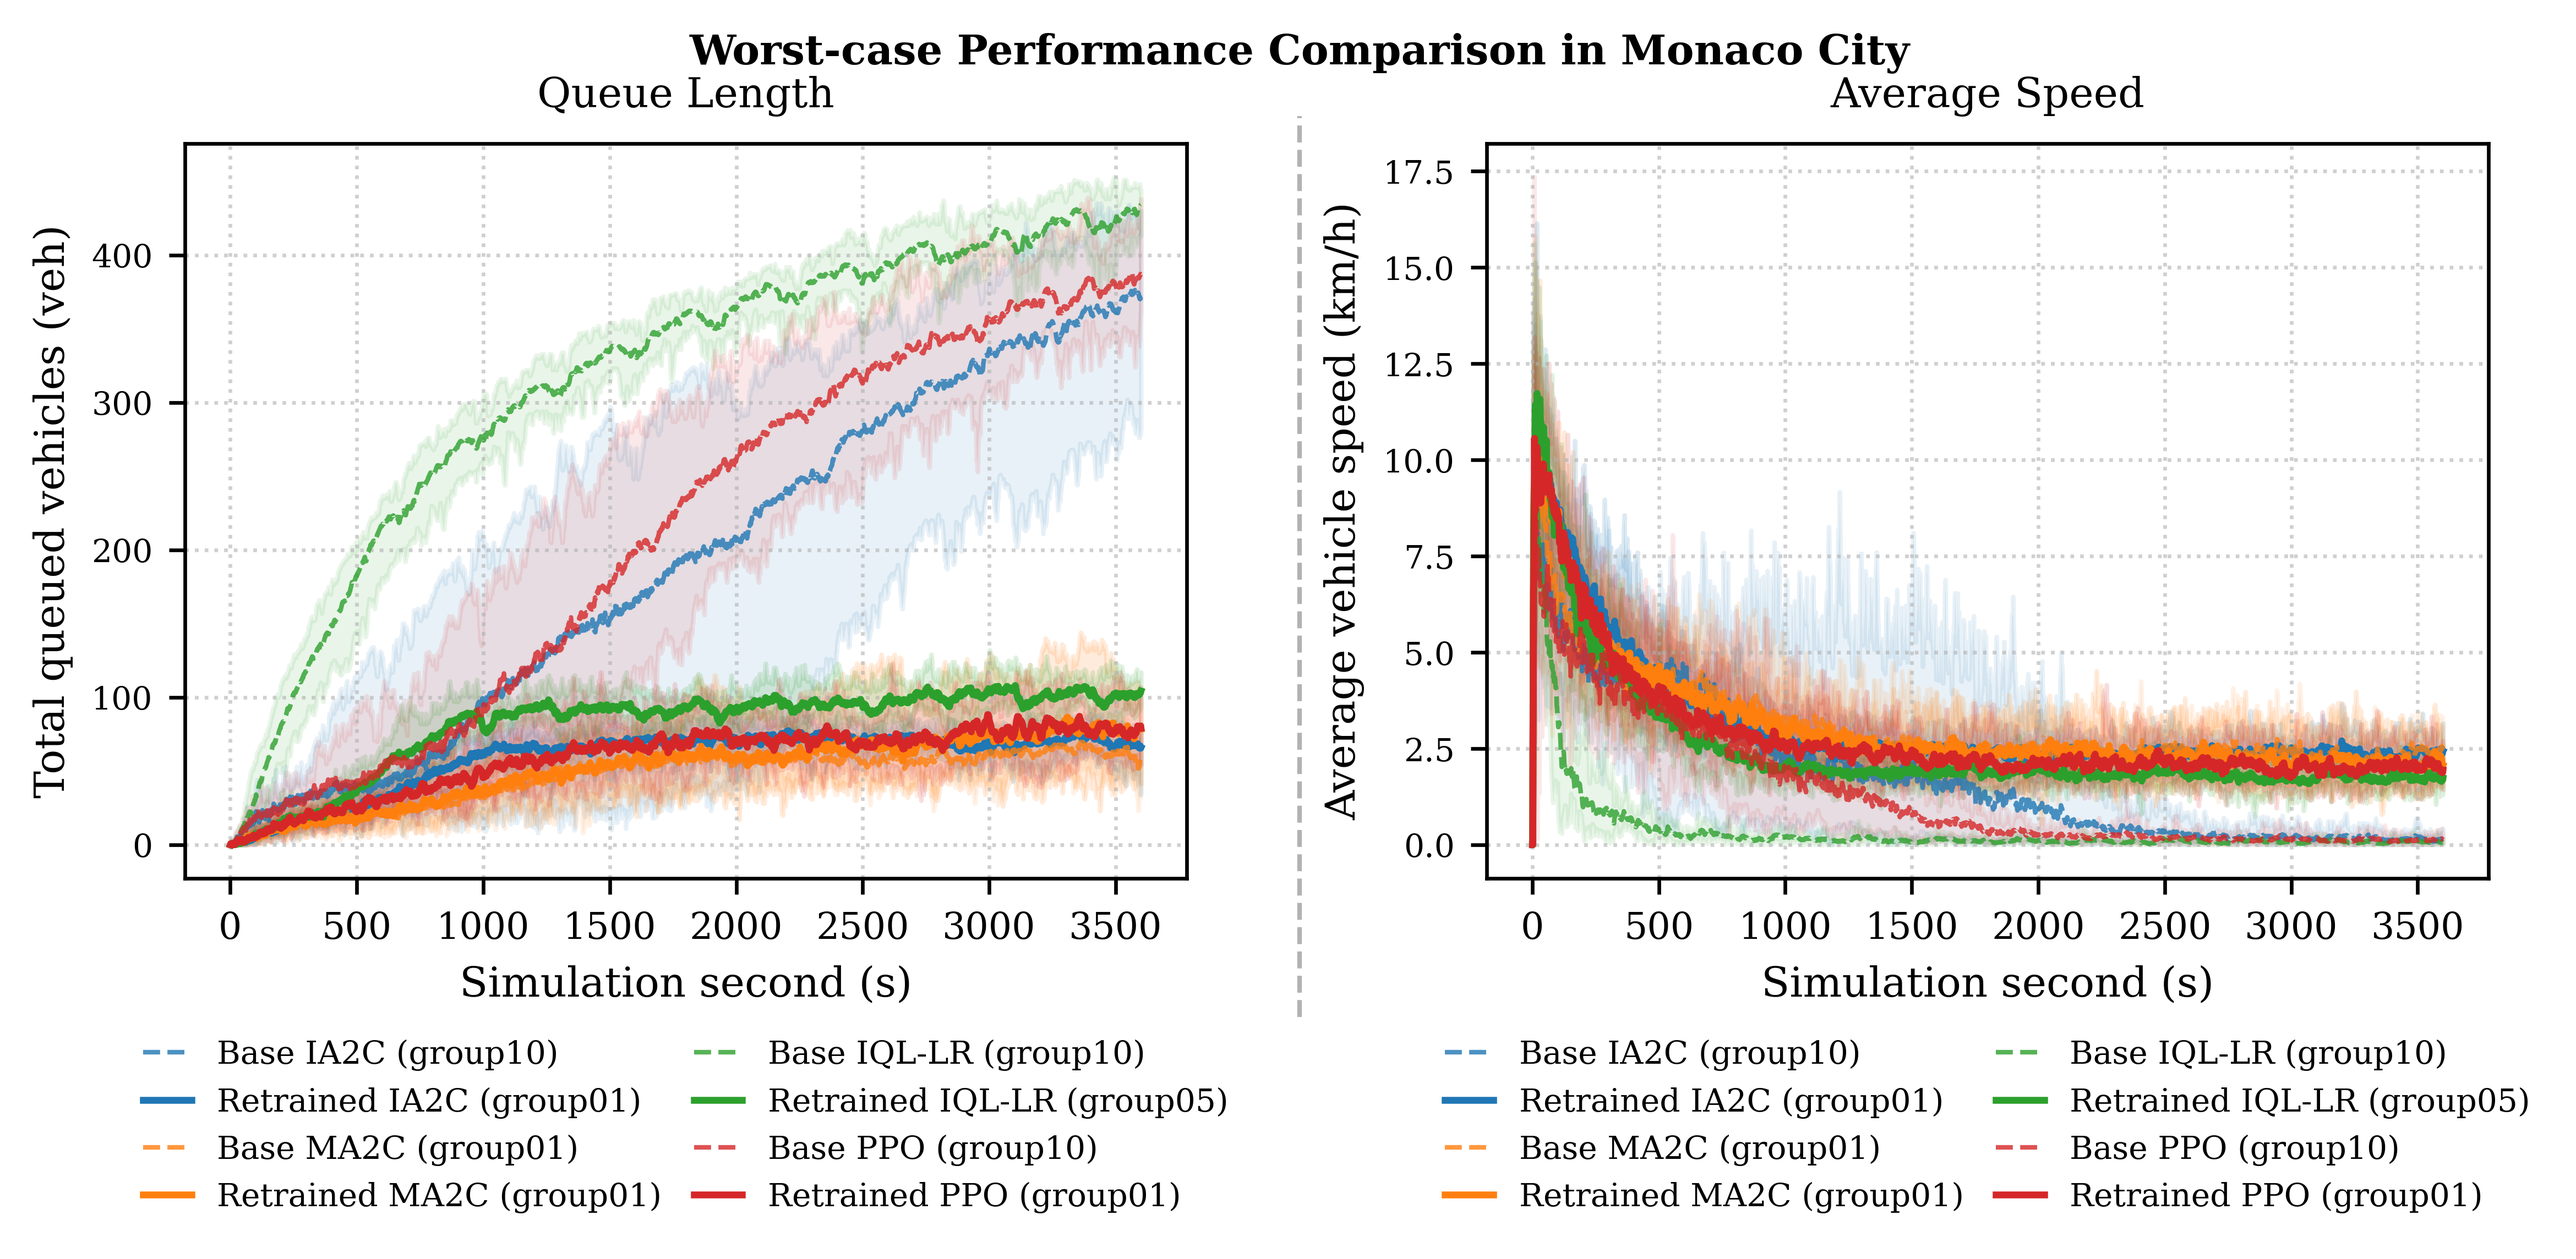
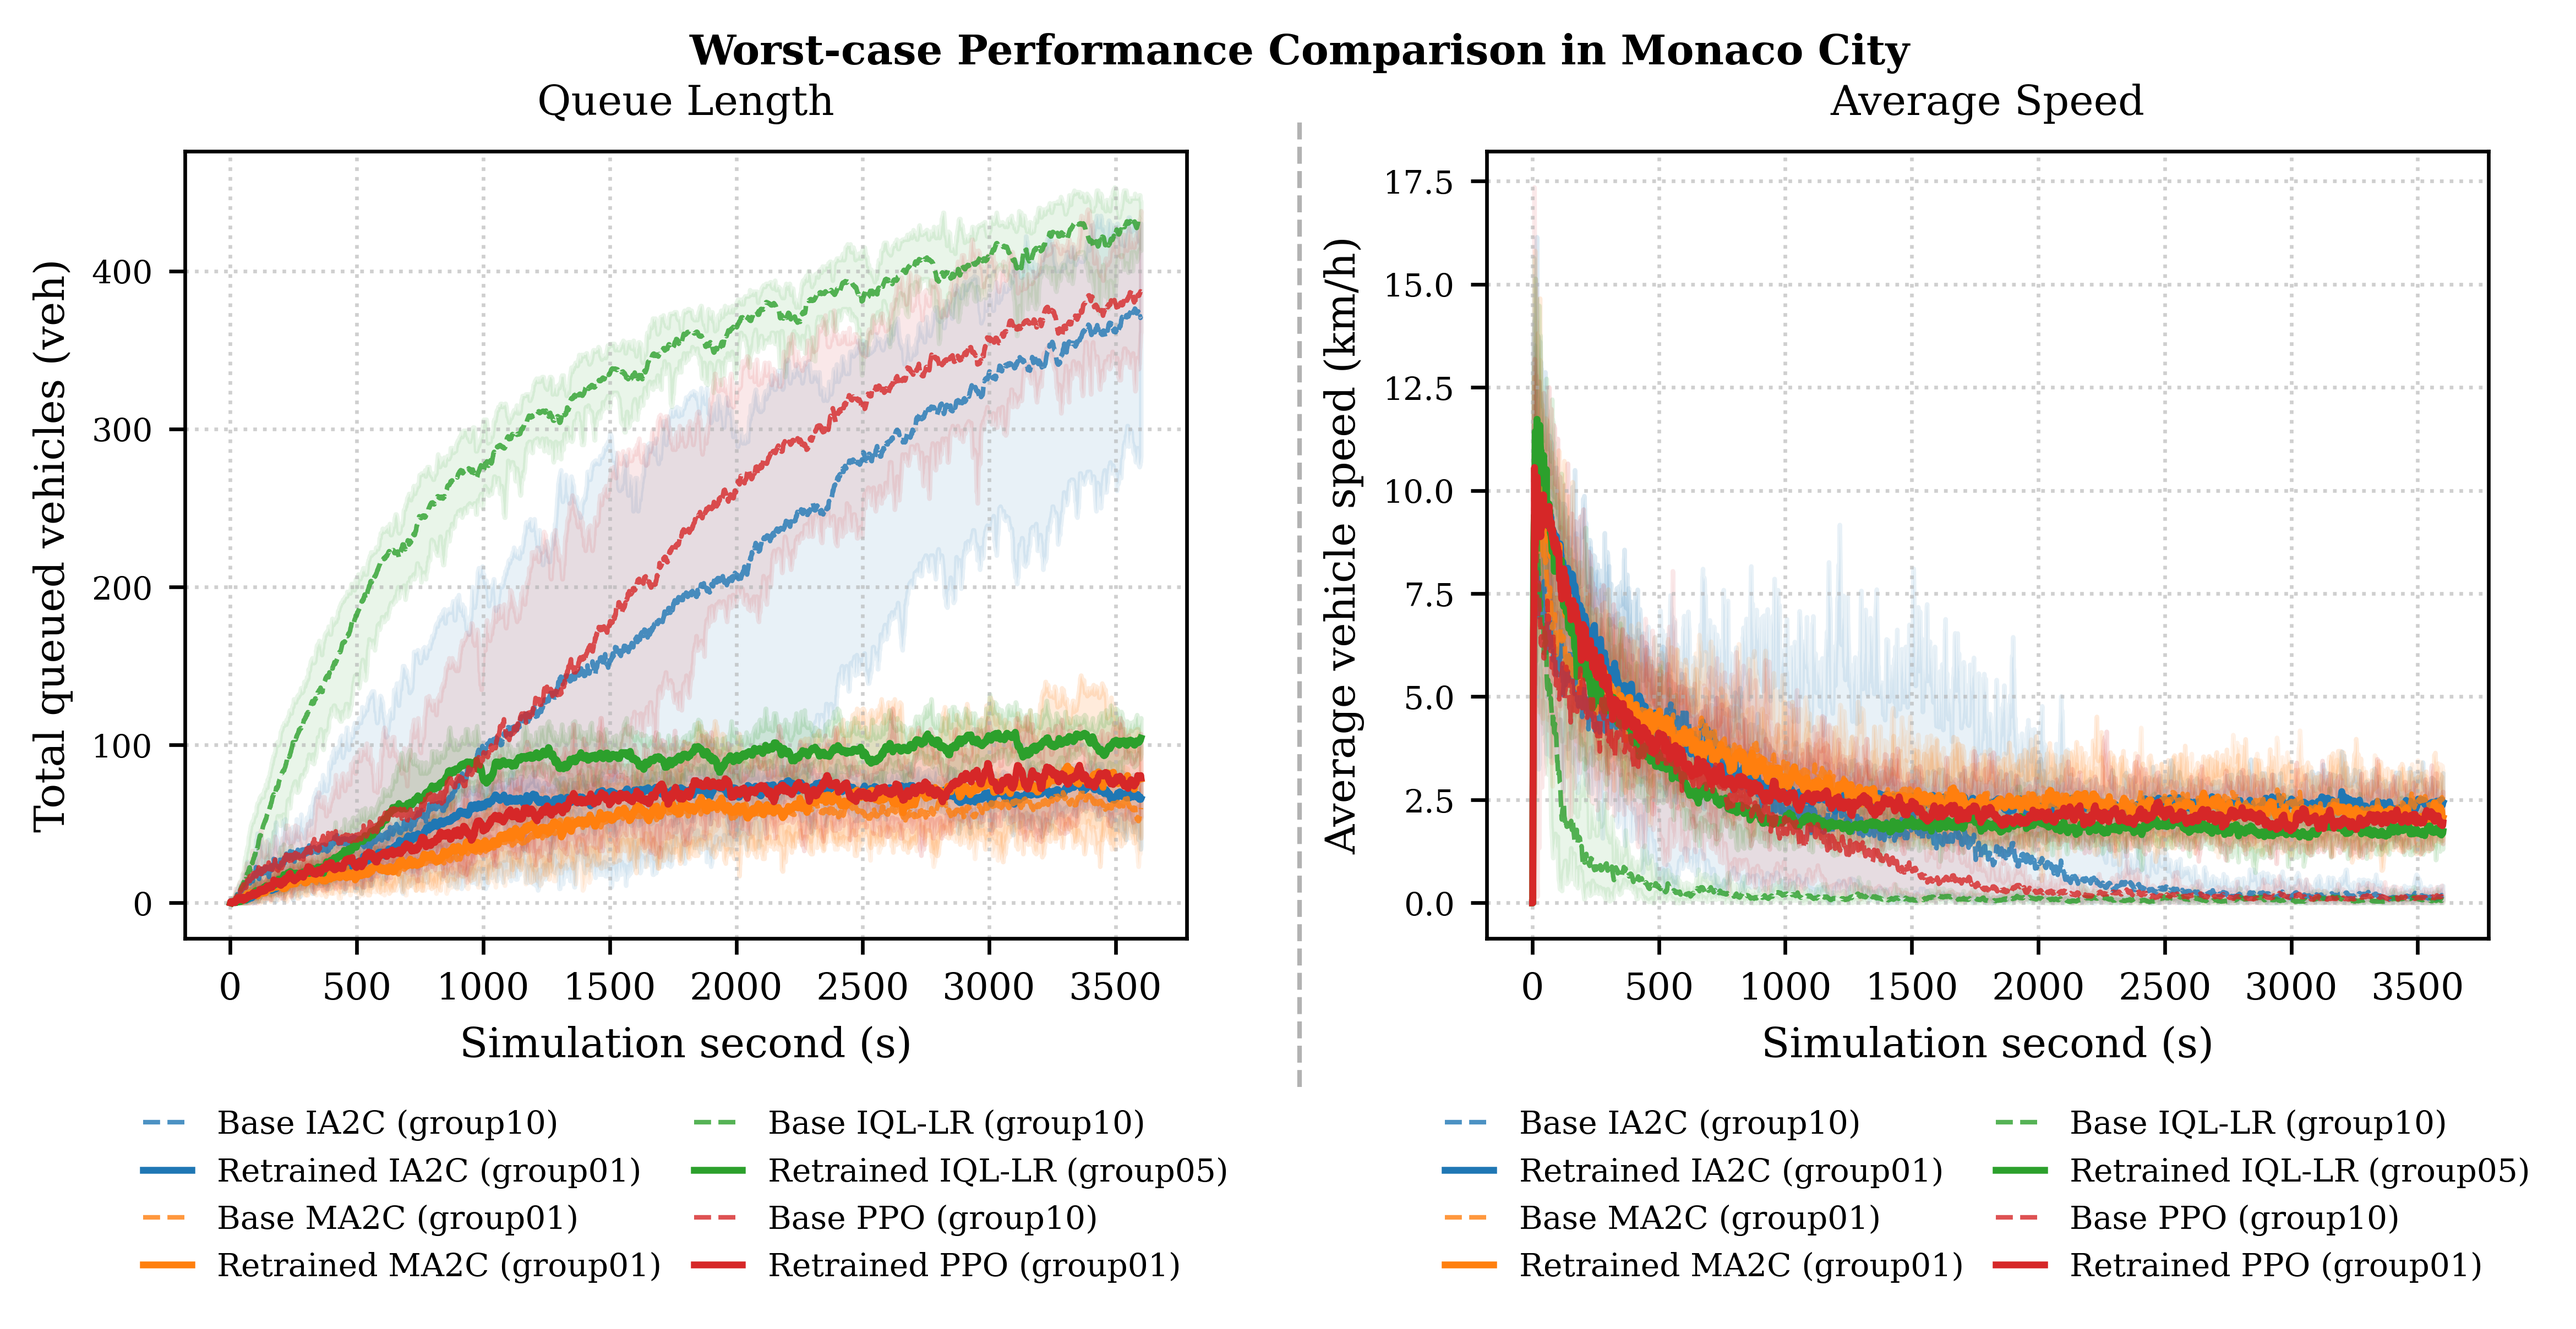
minor change for multi plot bot

diff --git a/Multi_plot.py b/Multi_plot.py
@@ -210,7 +210,7 @@ def main():
 
     for scenario in PAIRED_SCENARIOS:
         # 增加总高度至 4.8，为底部的多行图例留出充足空间
-        fig, (ax1, ax2) = plt.subplots(1, 2, figsize=(9, 4.2))
+        fig, (ax1, ax2) = plt.subplots(1, 2, figsize=(9, 4.5))
         
         # 添加共享的主标题，位置稍微靠上
         fig.suptitle(scenario["suptitle"], y=0.96, fontweight='bold')
